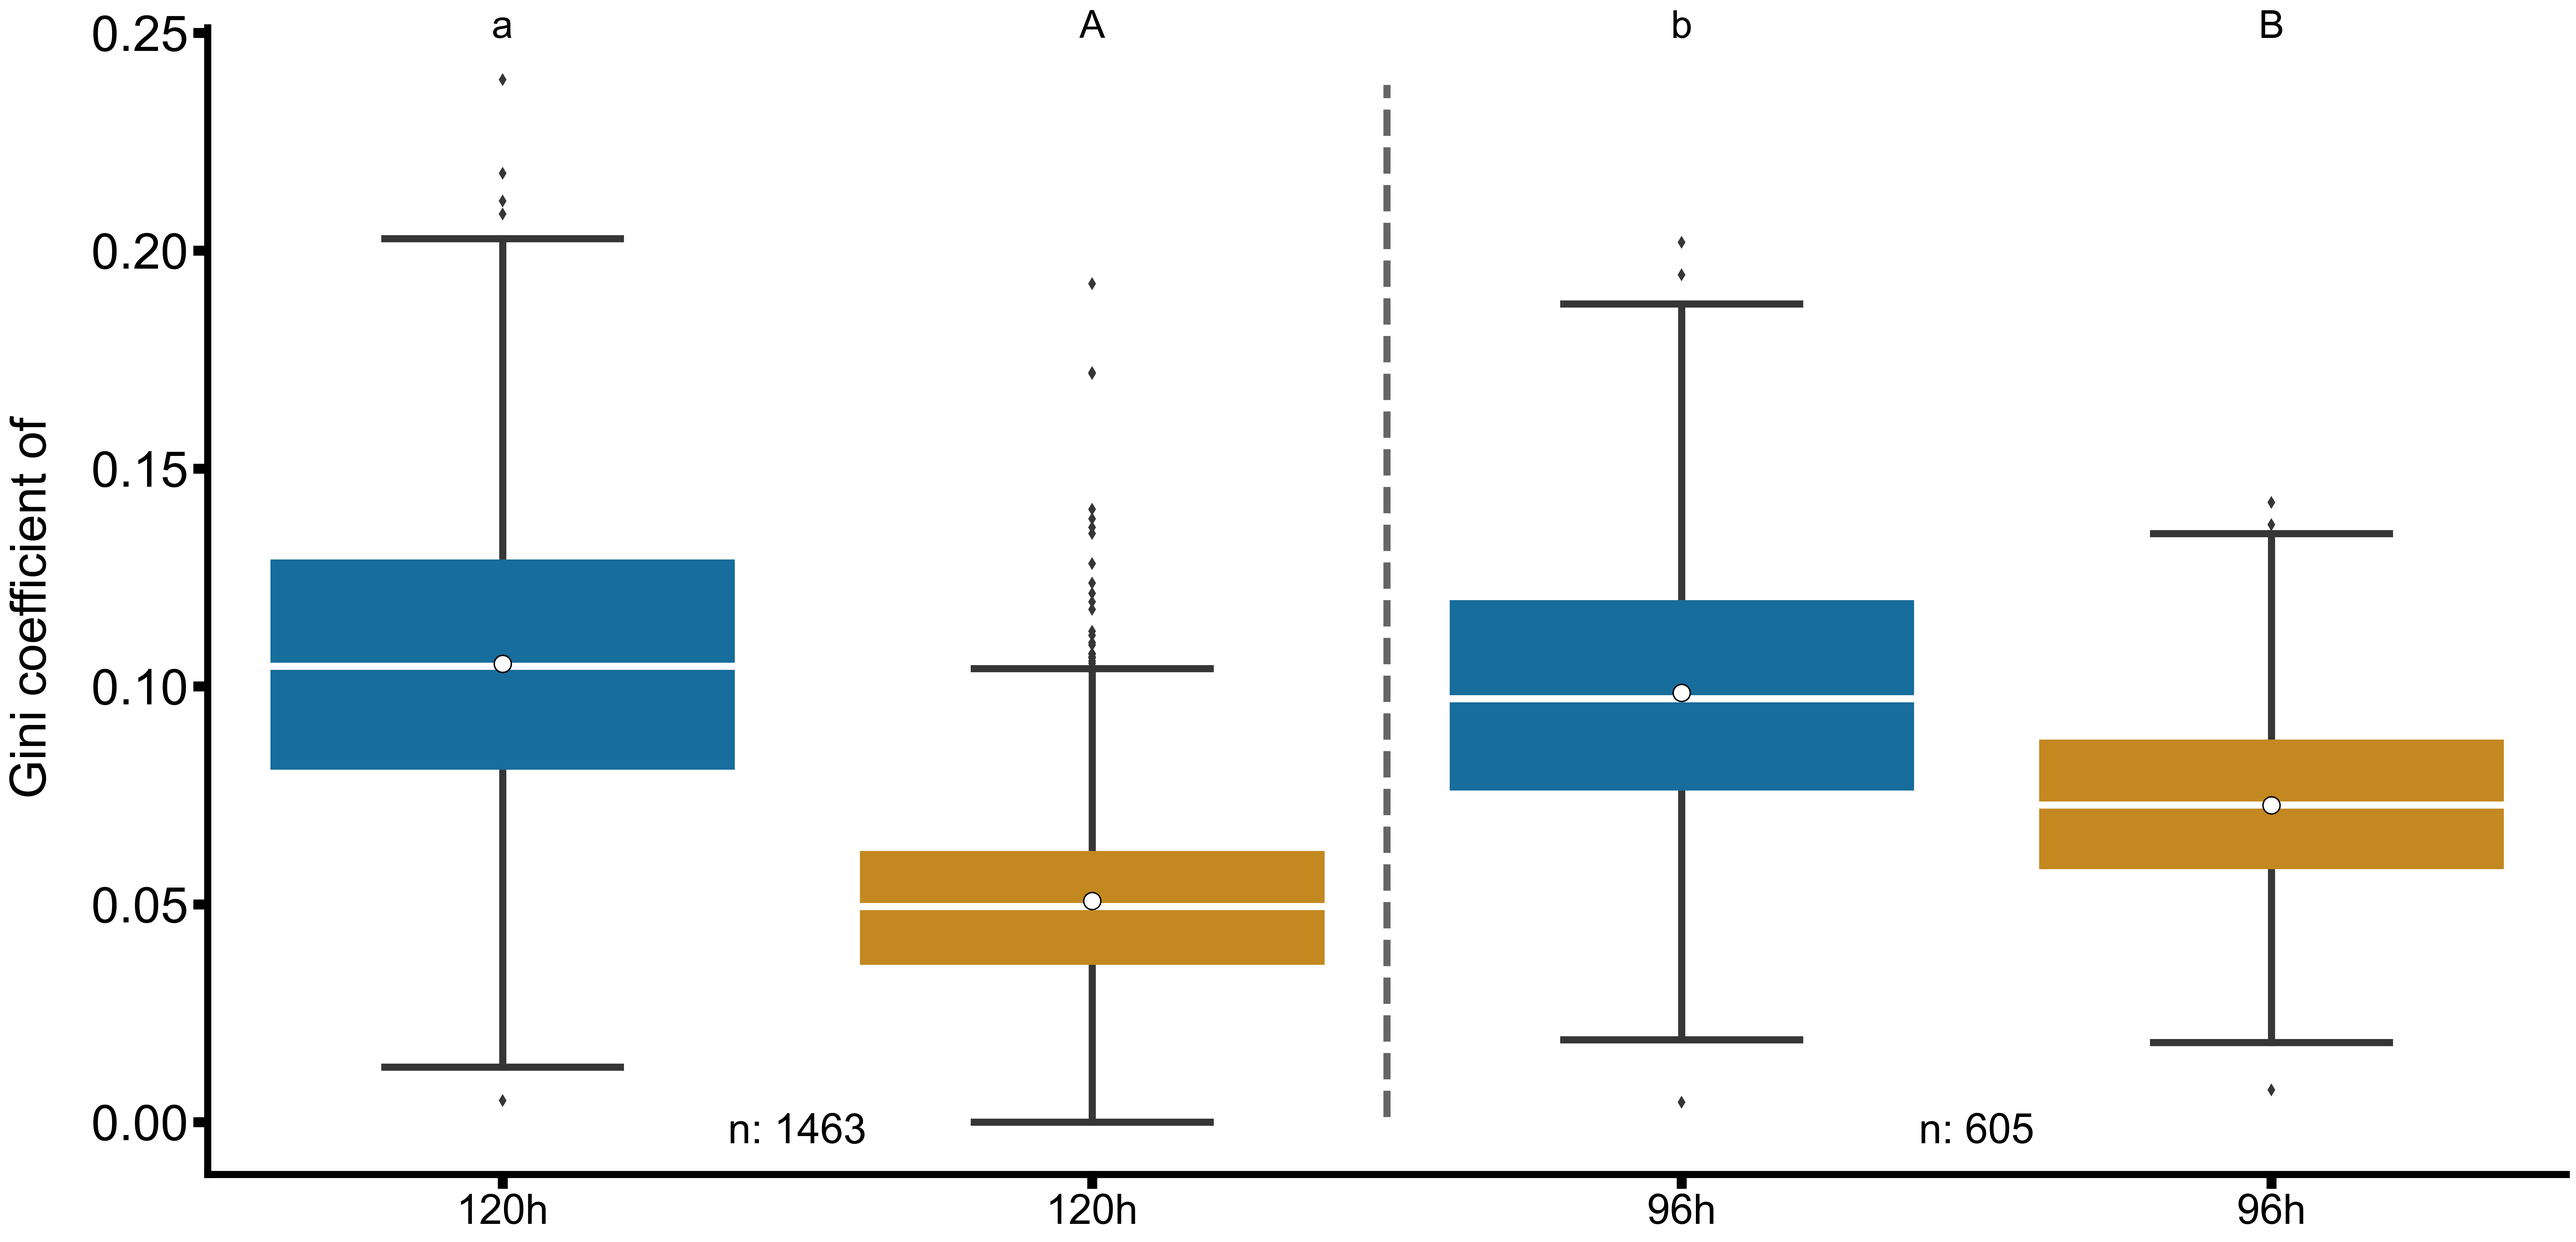
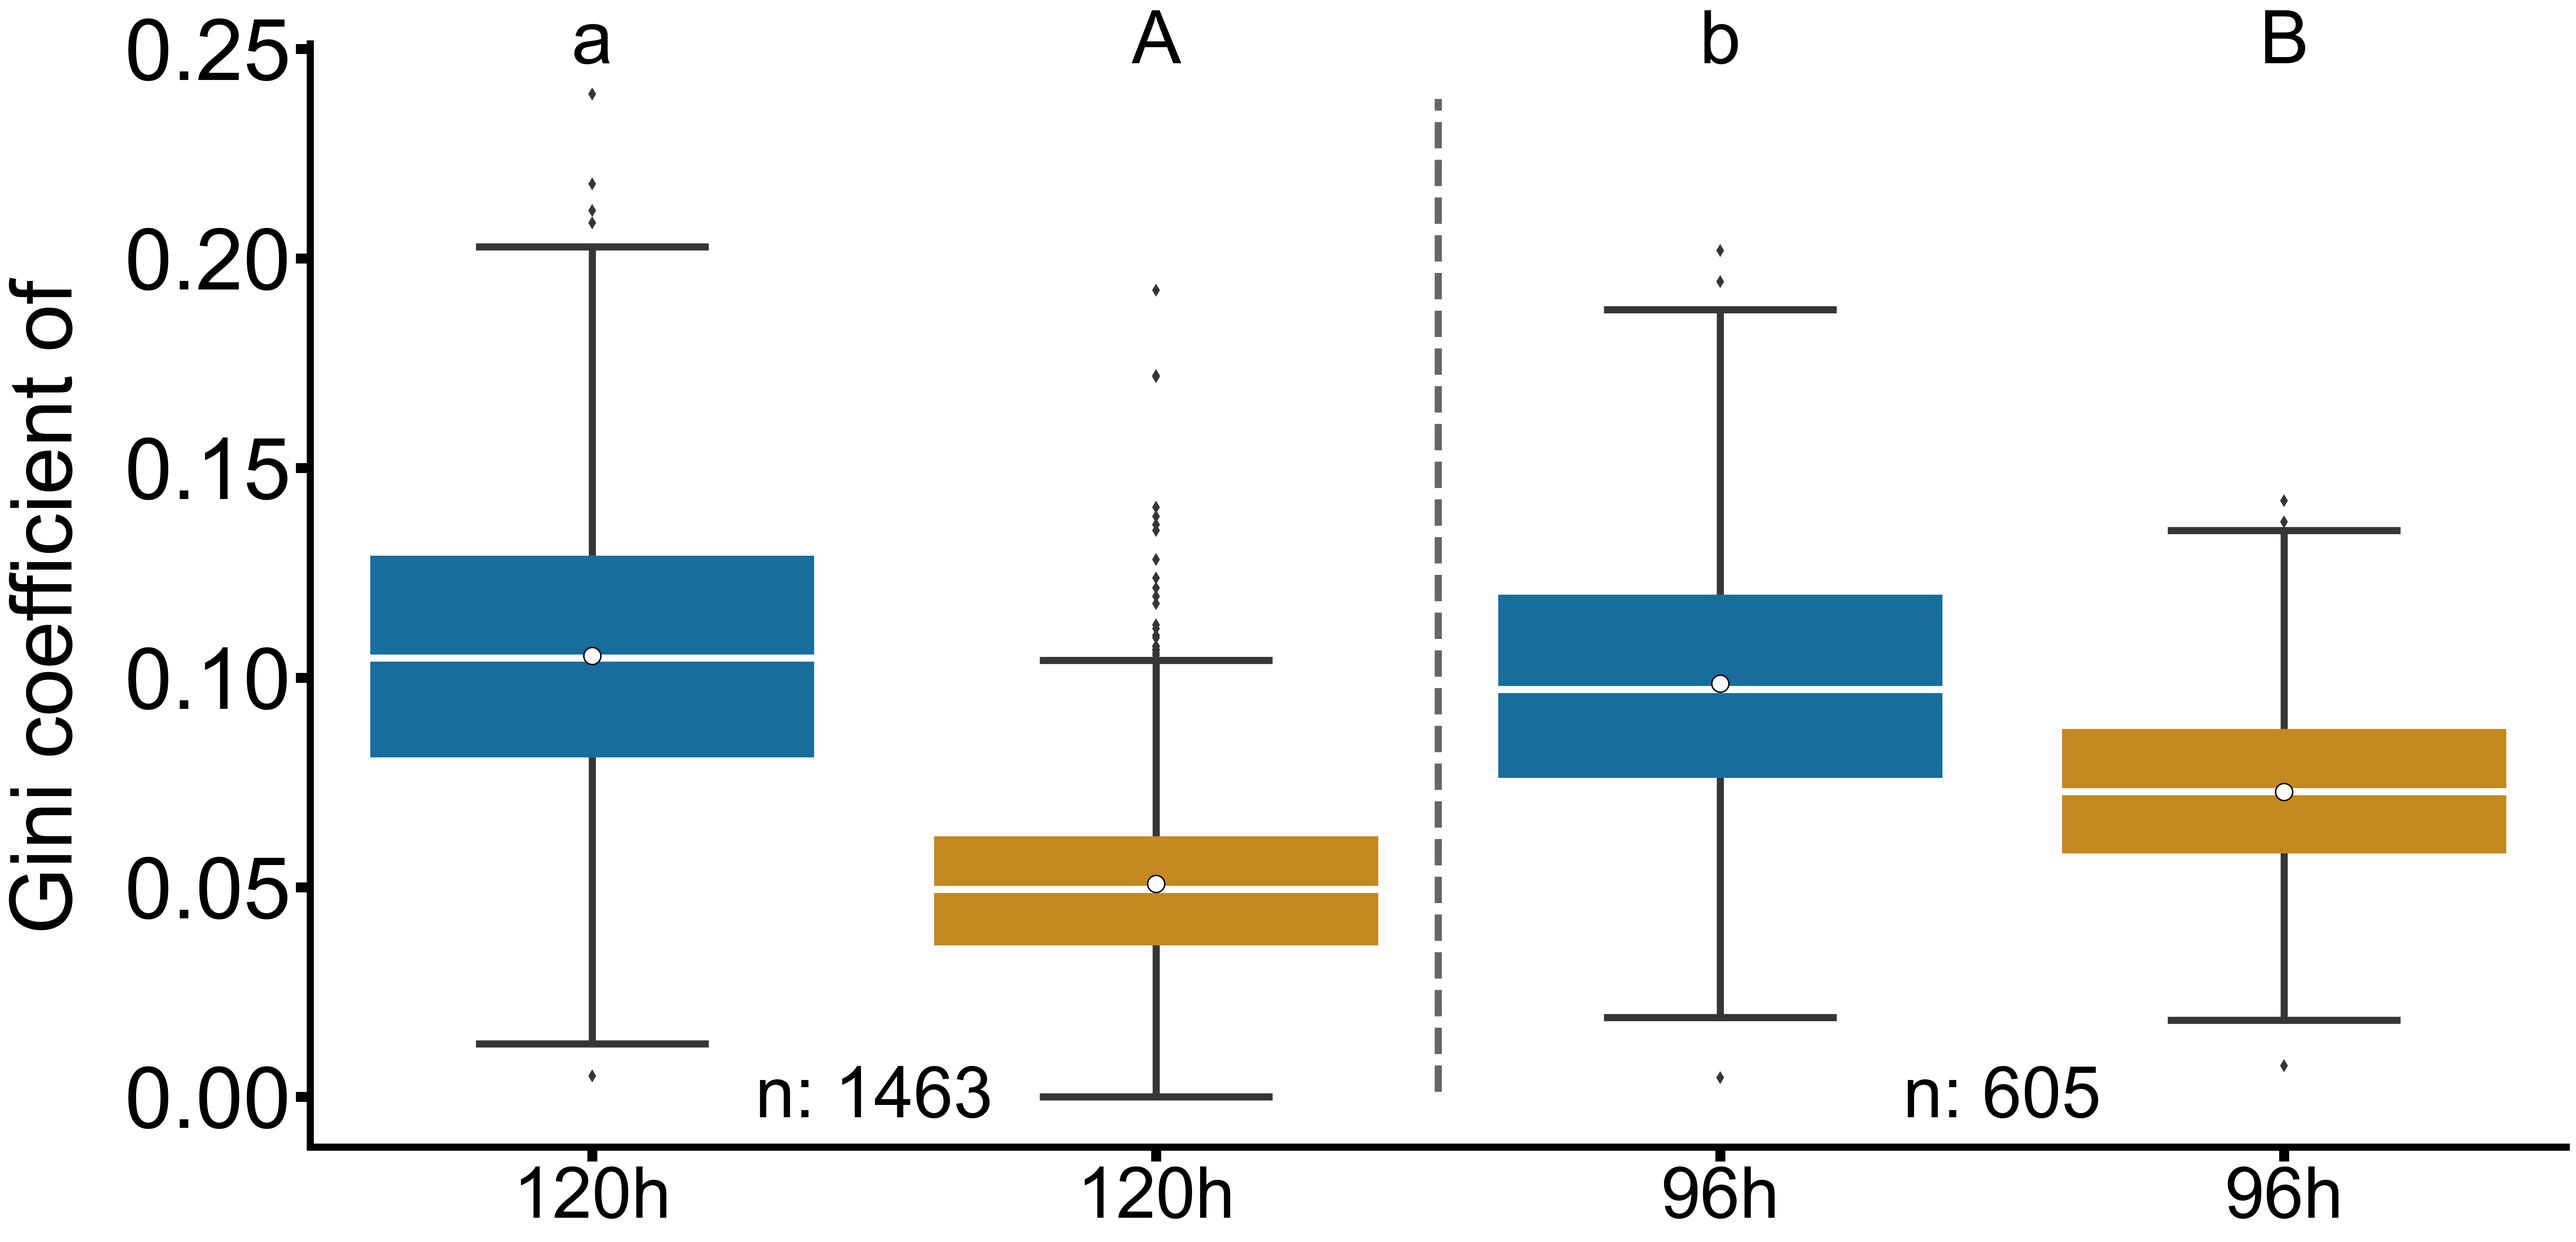
correct font size

diff --git a/Code/Analyze/ExtendedPlotter.py b/Code/Analyze/ExtendedPlotter.py
@@ -688,4 +688,4 @@ if __name__ == '__main__':
 
     mainCreateBoxPlotOf(measureName="Gini coefficient of ", plotSelectedColumnsAdjacent=["lengthGiniCoeff_ignoringGuardCells", "angleGiniCoeff_ignoringGuardCells"], resultsFolderExtensions="regularityResults/",
                         resultsNameExtension="_WtTissueComparison_with_ignoringGuardCells", tissueScenarioNames=["full cotyledons", "full cotyledons speechless"], tissueGeneNameOrdering={"cotyledon": ["WT", "speechless"]},
-                        compareAllAgainstAll=True, drawLinesAtTicksParameter="genTicks", showMinimalXLabels=True, excludeYLabel=True, overWriteForWhichGroupingToShowText="gene name")
+                        compareAllAgainstAll=True, drawLinesAtTicksParameter="genTicks", showMinimalXLabels=True, excludeYLabel=True, overWriteForWhichGroupingToShowText="gene name", fontSize=60)
